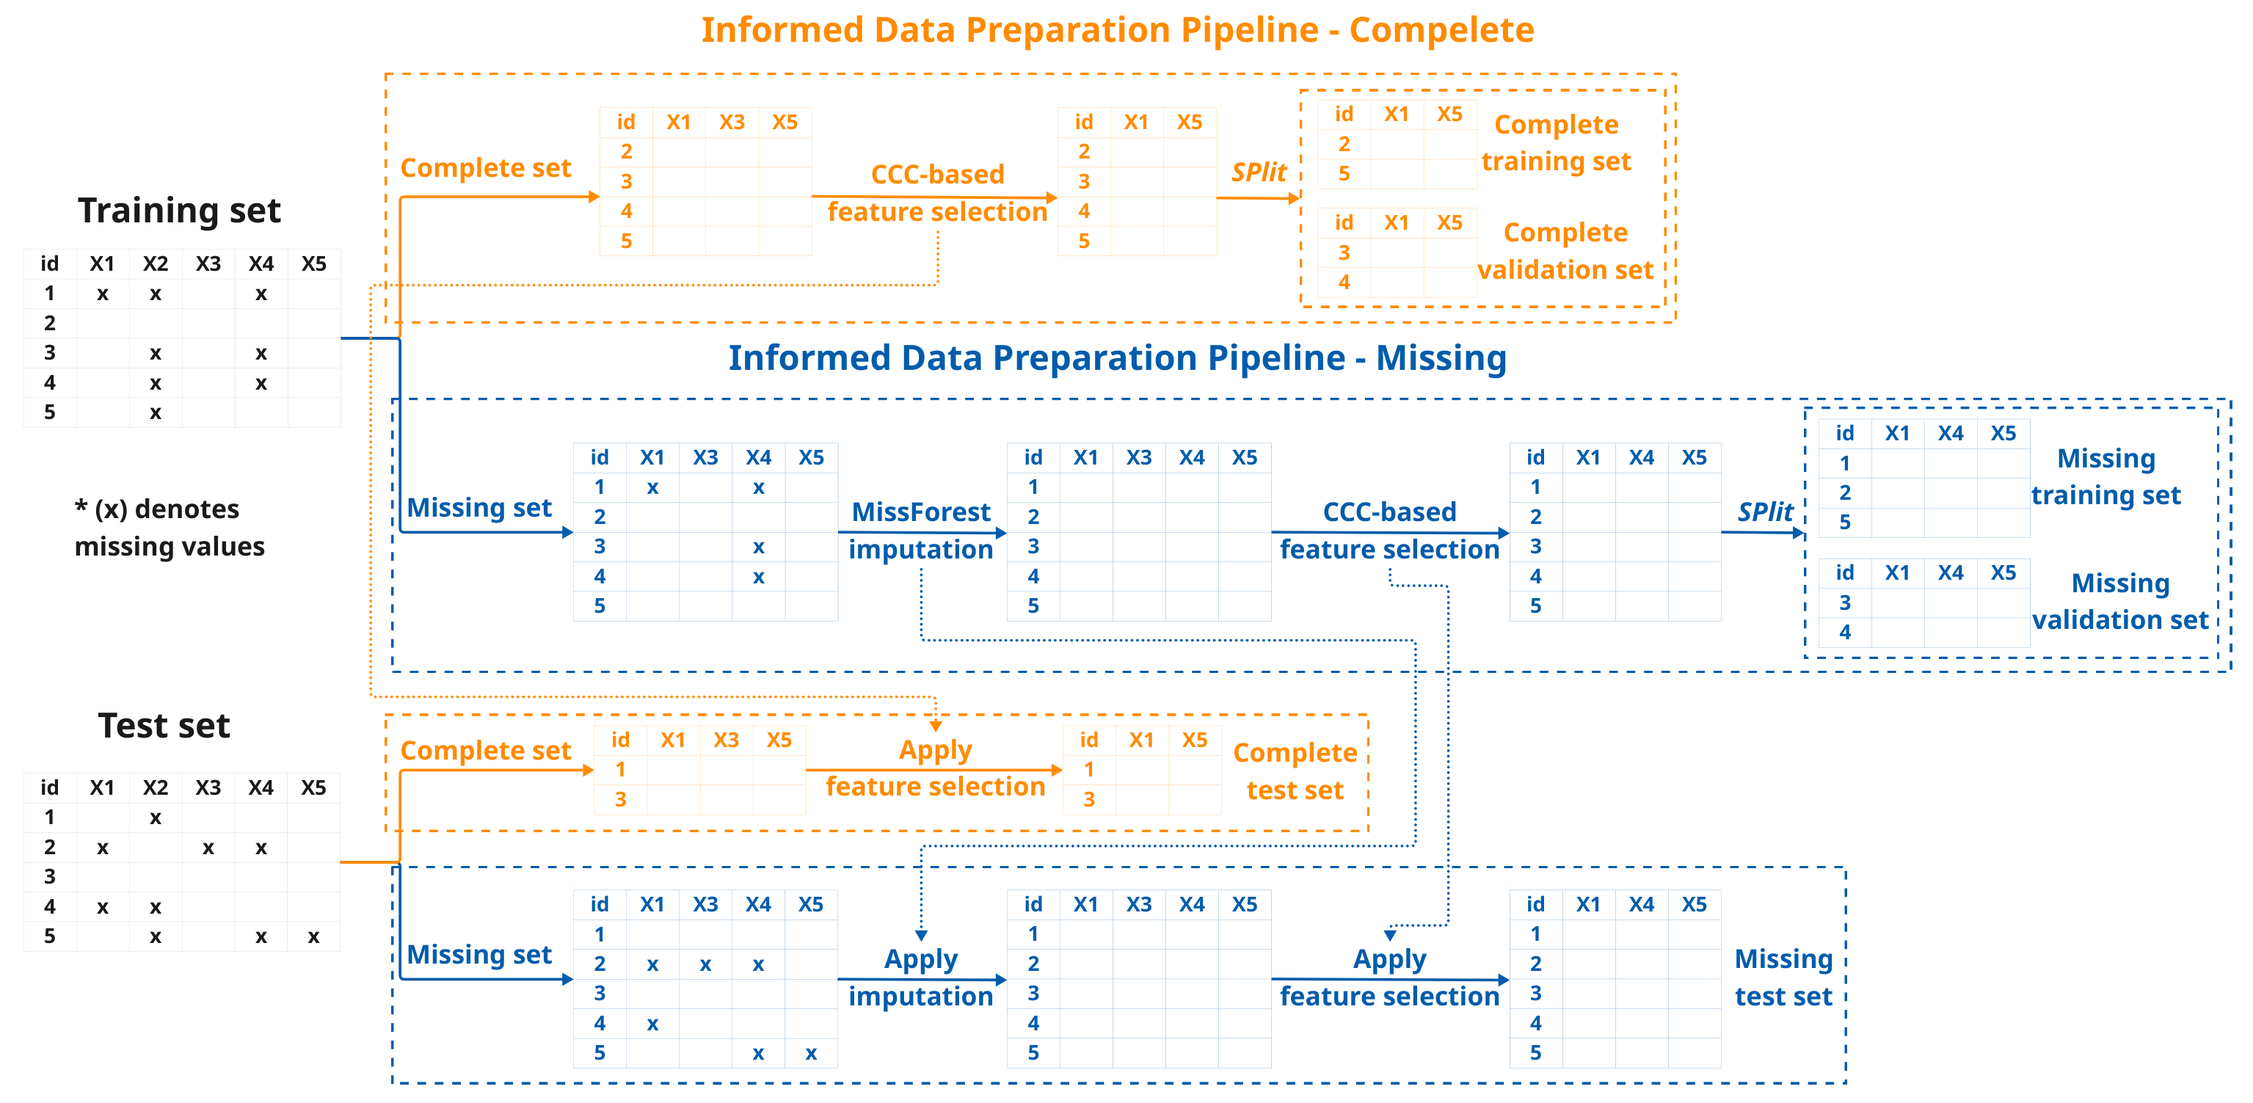
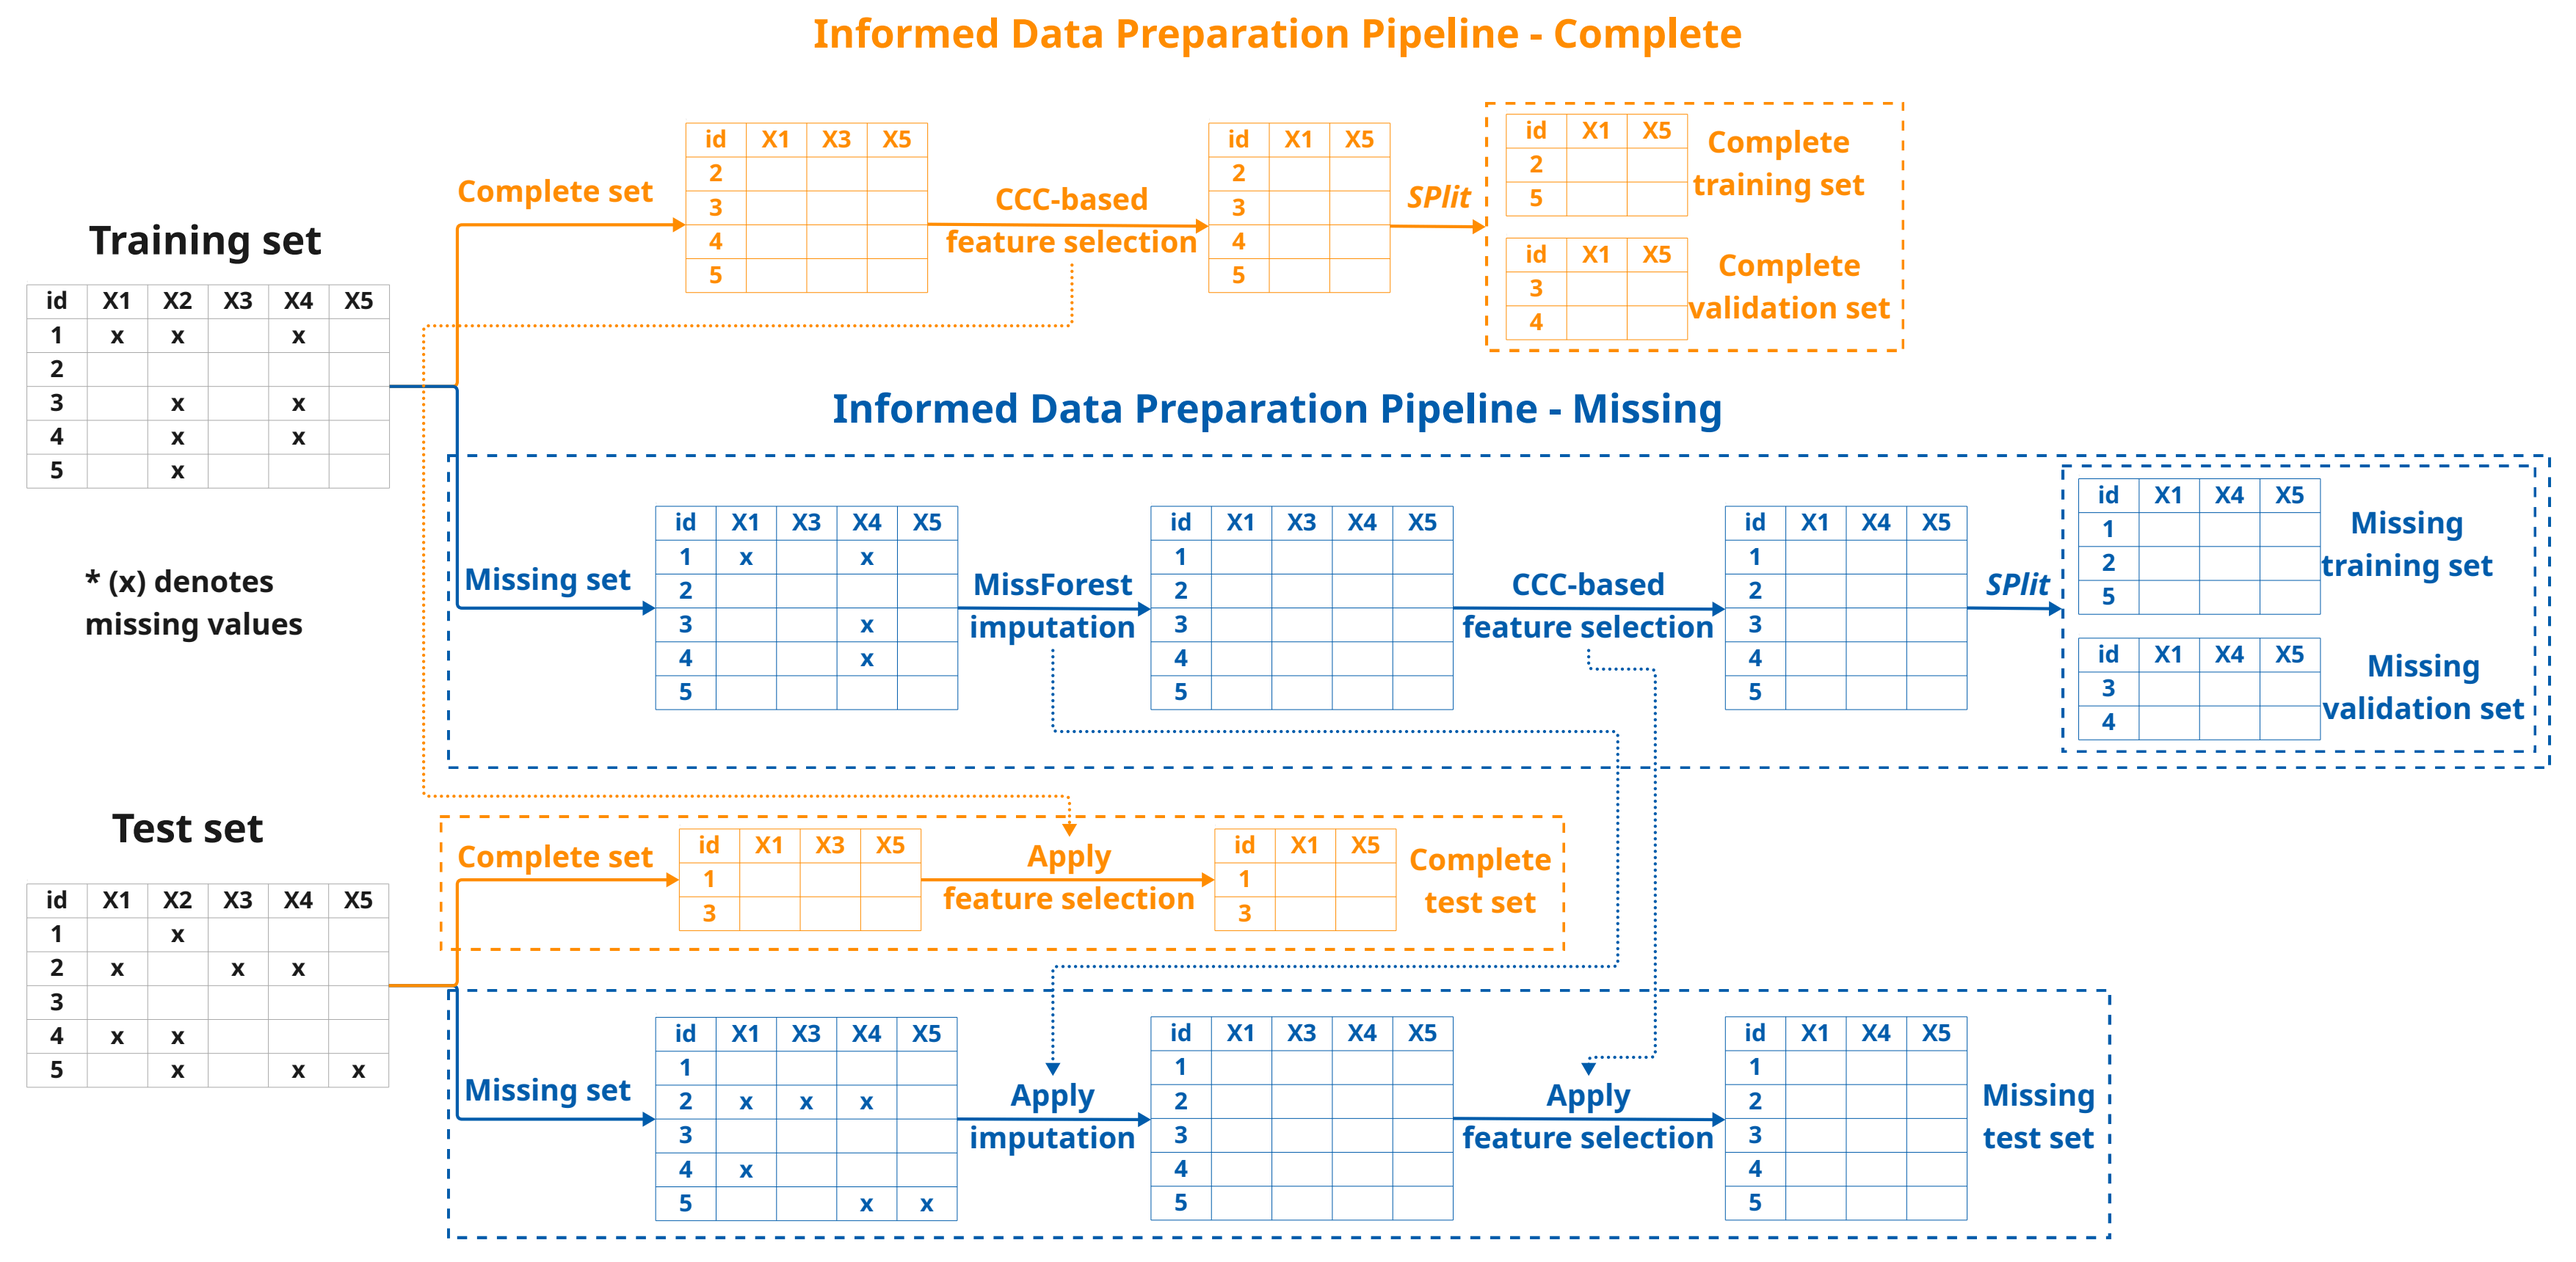
update progress reporter test

diff --git a/tests/test_utils/test_utils_optimize.py b/tests/test_utils/test_utils_optimize.py
@@ -39,6 +39,9 @@ SOFTWARE.
 """
 
 
+import pytest
+
+
 def test_get_algo():
     from InsurAutoML.utils.optimize import get_algo
 
@@ -105,8 +108,39 @@ def test_get_scheduler():
 def test_get_progress_reporter():
     from InsurAutoML.utils.optimize import get_progress_reporter
 
-    get_progress_reporter("CLIReporter", max_evals=64, max_error=4)
-    get_progress_reporter("JupyterNotebookReporter", max_evals=64, max_error=4)
+    from ray.tune.progress_reporter import CLIReporter, JupyterNotebookReporter
+
+    assert isinstance(
+        get_progress_reporter("CLIReporter", max_evals=64, max_error=4), CLIReporter
+    )
+    reporter = get_progress_reporter(
+        "JupyterNotebookReporter", max_evals=64, max_error=4
+    )
+    # without IPython (e.g. in CI) the CLIReporter is used instead
+    try:
+        import IPython.display  # noqa: F401
+
+        expected = JupyterNotebookReporter
+    except ImportError:
+        expected = CLIReporter
+    assert isinstance(reporter, expected)
+
+
+def test_get_progress_reporter_without_ipython(monkeypatch):
+    import sys
+
+    from ray.tune.progress_reporter import CLIReporter
+
+    from InsurAutoML.utils.optimize import get_progress_reporter
+
+    # None in sys.modules makes the import fail (IPython not installed)
+    monkeypatch.setitem(sys.modules, "IPython", None)
+    monkeypatch.setitem(sys.modules, "IPython.display", None)
+    with pytest.warns(UserWarning, match="requires IPython"):
+        reporter = get_progress_reporter(
+            "JupyterNotebookReporter", max_evals=64, max_error=4
+        )
+    assert isinstance(reporter, CLIReporter)
 
 
 def test_get_logger():

diff --git a/InsurAutoML/utils/optimize.py b/InsurAutoML/utils/optimize.py
@@ -2045,6 +2045,18 @@ def get_progress_reporter(
     # 0 rows would make the error table of the reporter fail, use no limit (None)
     max_error_rows = max_error if max_error and max_error > 0 else None
 
+    # the JupyterNotebookReporter displays through IPython (always available in
+    # notebooks, not a dependency of the package): fall back to the CLIReporter
+    if progress_reporter == "JupyterNotebookReporter":
+        try:
+            import IPython.display  # noqa: F401
+        except ImportError:
+            warnings.warn(
+                "JupyterNotebookReporter requires IPython, which is not installed. "
+                "Using CLIReporter instead."
+            )
+            progress_reporter = "CLIReporter"
+
     if progress_reporter == "CLIReporter":
         from ray.tune.progress_reporter import CLIReporter
 
